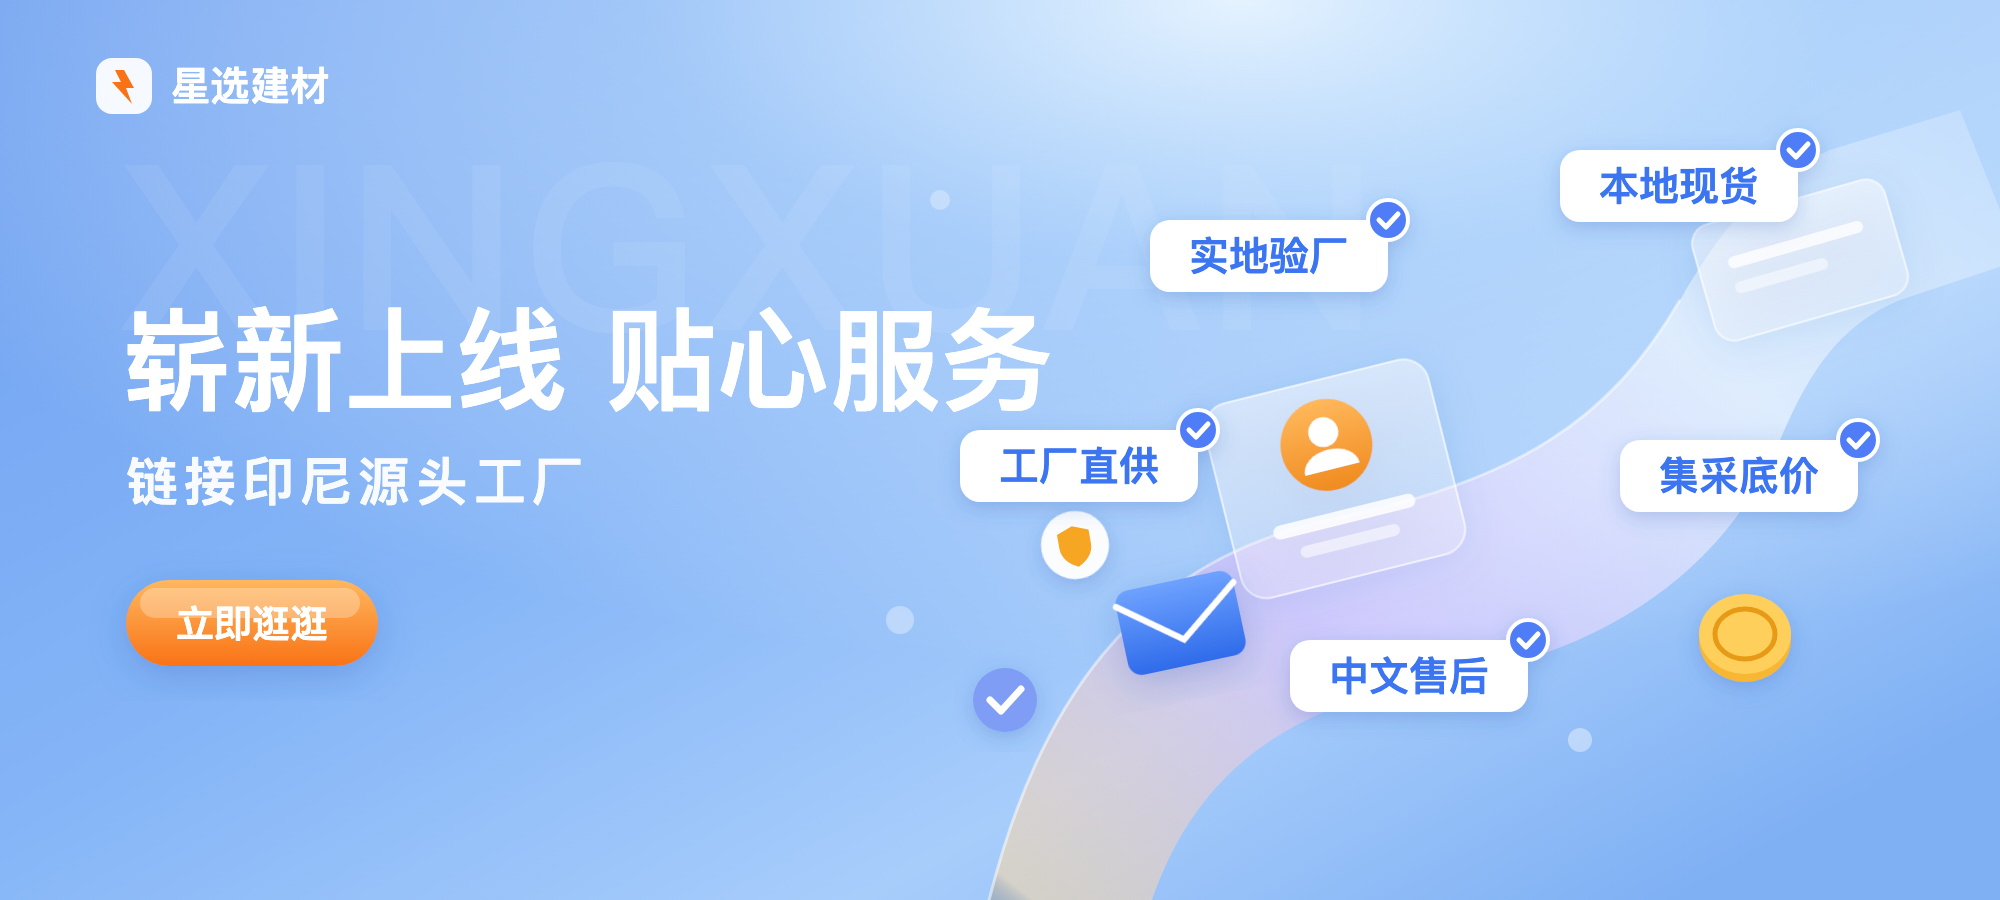
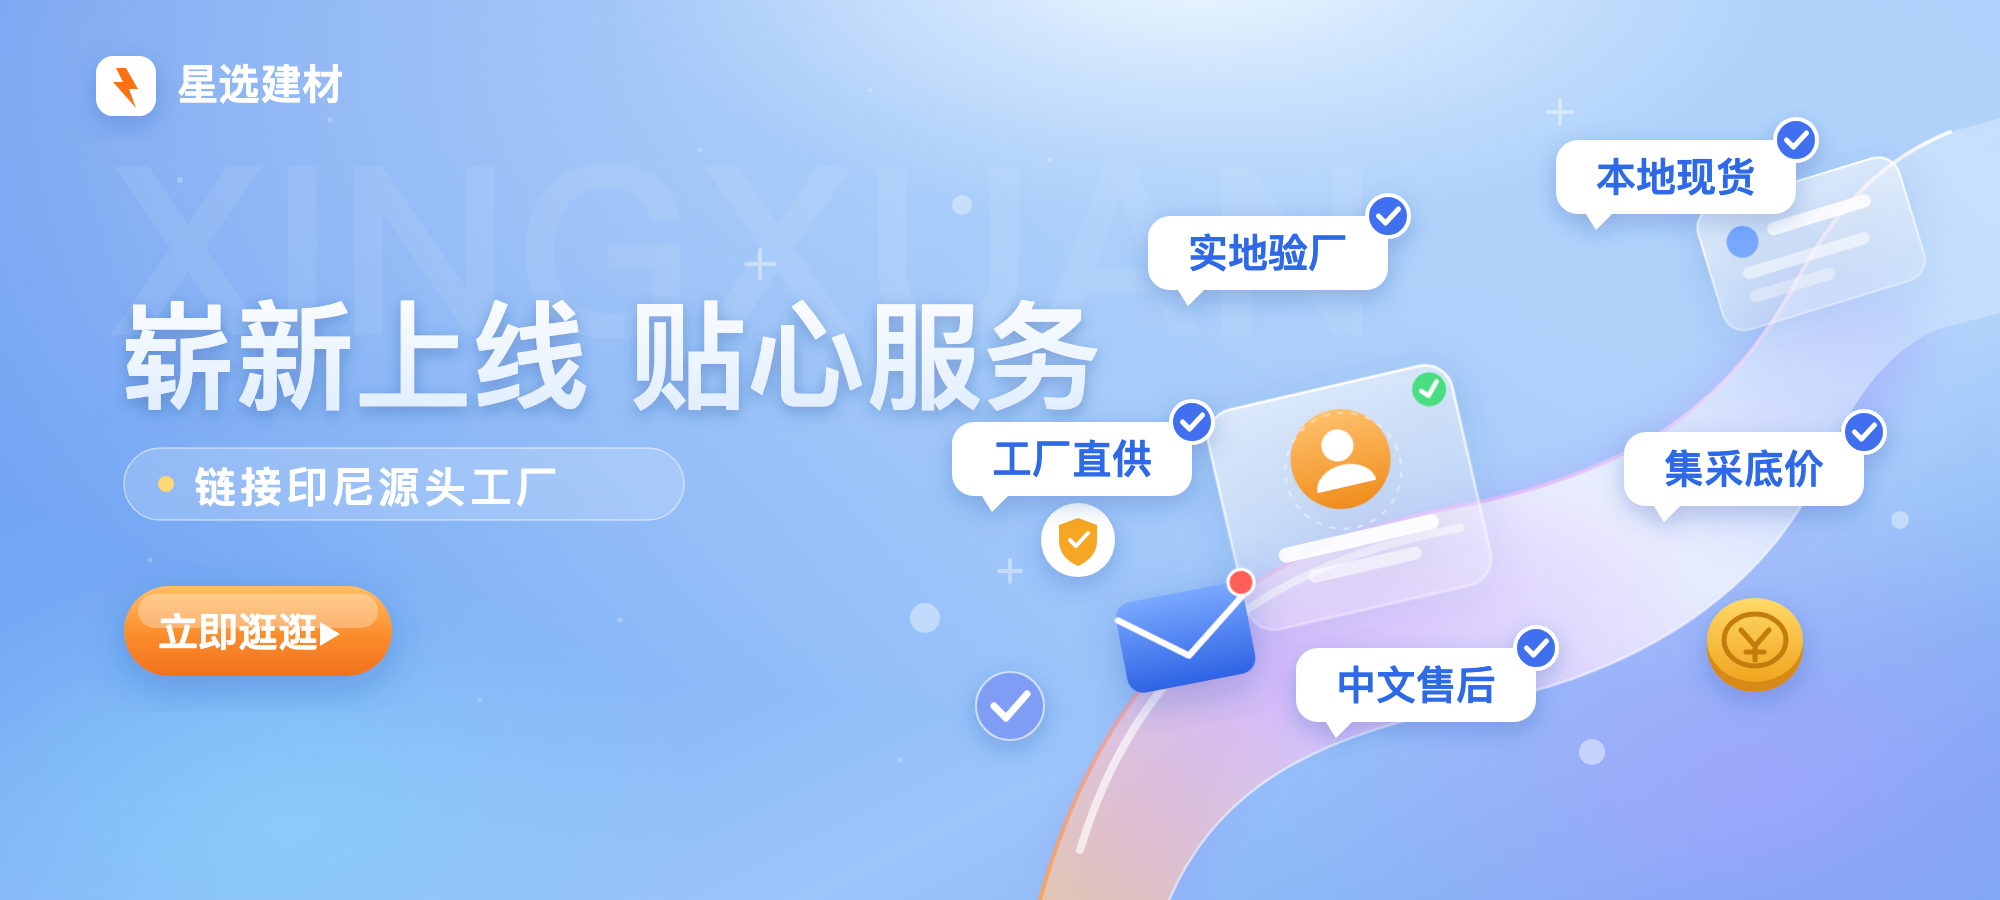
feat(shelf): 重做「崭新上线」宣传图（更精致）；落库脚本支持刷新图片
- 新版：光效分层背景 + 玻璃丝带(紫橙渐变描边) + 认证工厂玻璃卡 + 带尾巴标签气泡 + 副标题胶囊 + 按钮箭头
- seed_shelf_banners.php：记录已存在时仍覆盖 storage 图片文件，重跑 --apply 即可换图

diff --git a/scripts/data-fixes/seed_shelf_banners.php b/scripts/data-fixes/seed_shelf_banners.php
@@ -34,16 +34,27 @@ foreach ($seeds as $s) {
     $srcAbs = $root . '/' . $s['src'];
     $dstAbs = $root . '/backend/storage/' . $s['dst'];
 
-    $st = $pdo->prepare("SELECT id FROM banners WHERE image_path = ?");
-    $st->execute([$s['dst']]);
-    if ($existId = $st->fetchColumn()) {
-        echo "跳过 {$s['note']}：已存在（banner id={$existId}）\n";
-        $nextW--;
-        continue;
-    }
     if (!is_file($srcAbs)) {
         fwrite(STDERR, "缺少源文件 {$s['src']}，请先 git pull 拉全仓库\n");
         exit(1);
+    }
+
+    $st = $pdo->prepare("SELECT id FROM banners WHERE image_path = ?");
+    $st->execute([$s['dst']]);
+    if ($existId = $st->fetchColumn()) {
+        // 记录已在：仅刷新图片文件（源图有更新时重跑 --apply 即可换图）
+        echo "已存在 {$s['note']}（banner id={$existId}），刷新图片文件\n";
+        if ($apply) {
+            if (!is_dir($storageDir)) mkdir($storageDir, 0775, true);
+            if (!copy($srcAbs, $dstAbs)) {
+                fwrite(STDERR, "复制失败：{$dstAbs}\n");
+                exit(1);
+            }
+            @chmod($dstAbs, 0664);
+            echo "  ✓ 已覆盖 {$s['dst']}\n";
+        }
+        $nextW--;
+        continue;
     }
 
     echo "插入 {$s['note']}：{$s['dst']} → {$s['link']}（sort_weight={$nextW}）\n";
